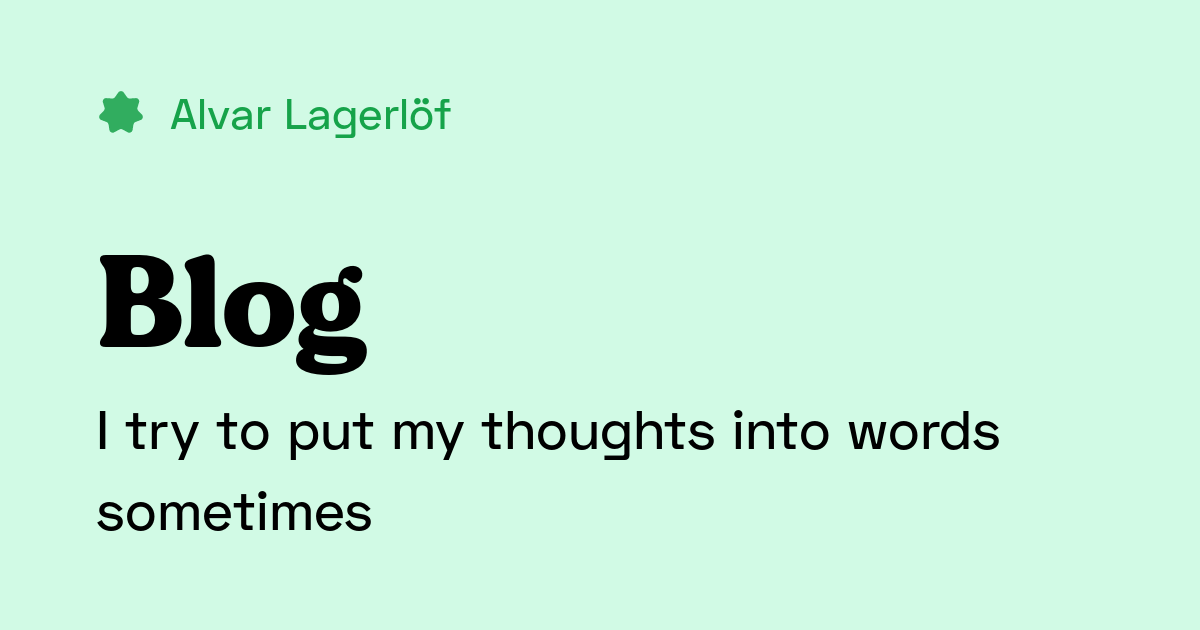
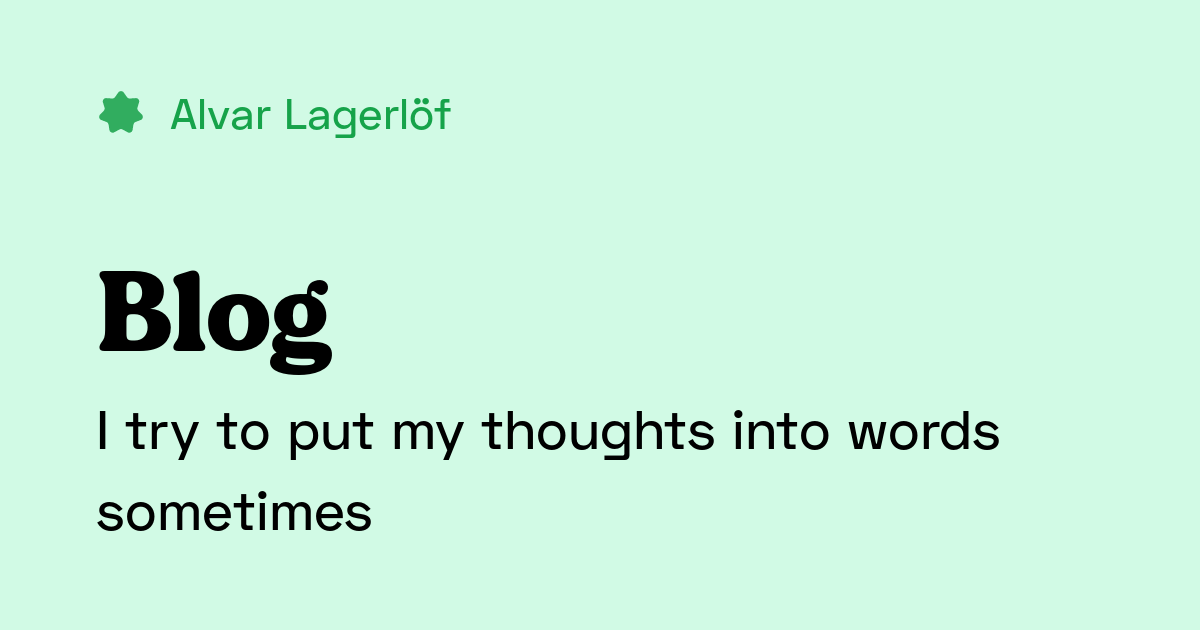
Smaller og:image title

Changed region(s): [[0.0617, 0.3921, 0.3083, 0.6032]]

diff --git a/pages/_ogimage/default.tsx b/pages/_ogimage/default.tsx
@@ -19,7 +19,7 @@ export default function Default() {
       </div>
 
       <div className="space-y-2">
-        <h1 className="font-heading text-[8em] leading-[1.2]">{title}</h1>
+        <h1 className="font-heading text-[7em] leading-[1.2]">{title}</h1>
         <h2 className="font-subheading text-[3.4em]">{description}</h2>
       </div>
     </div>
